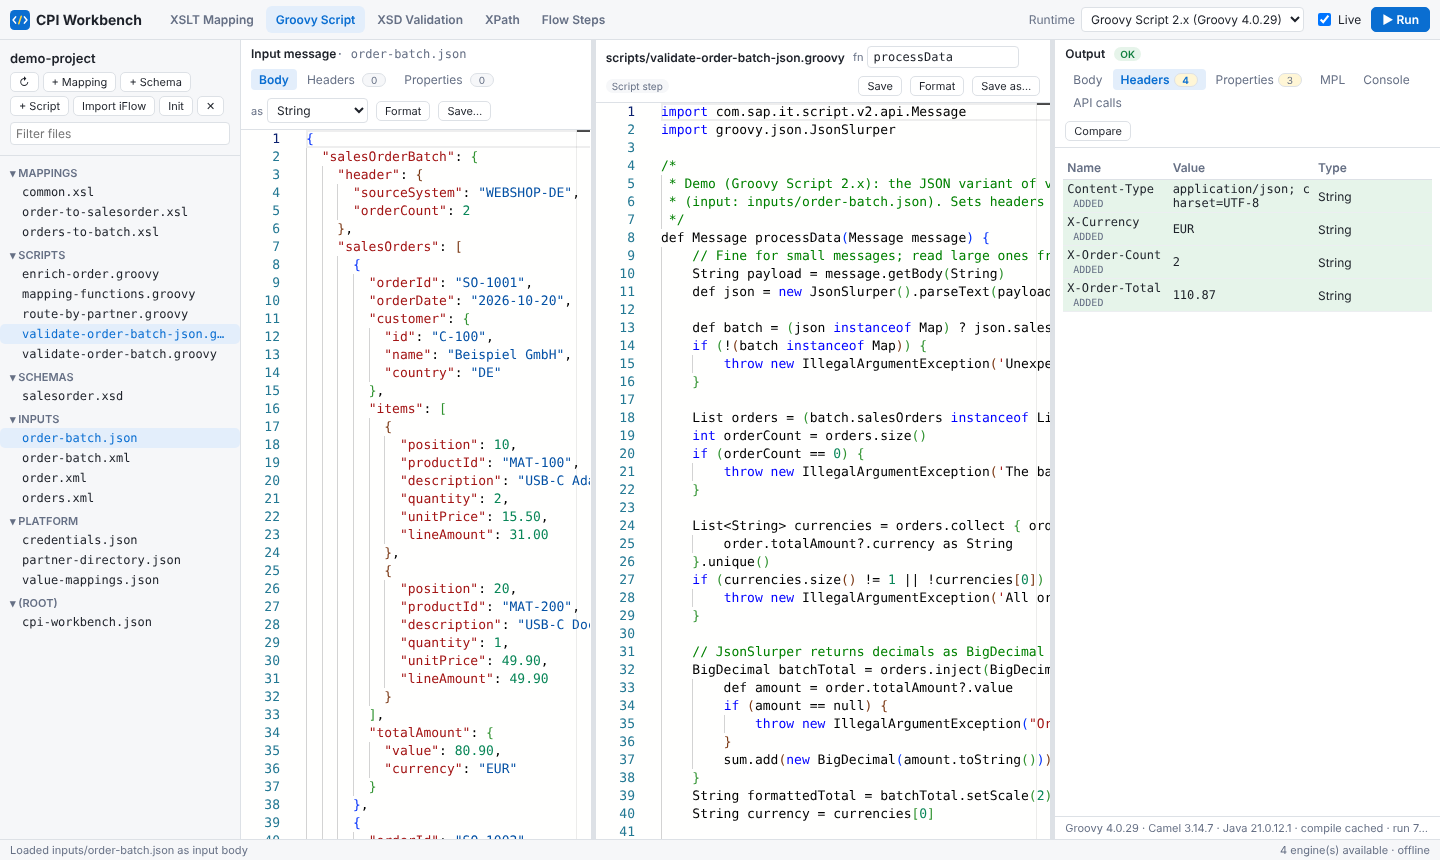
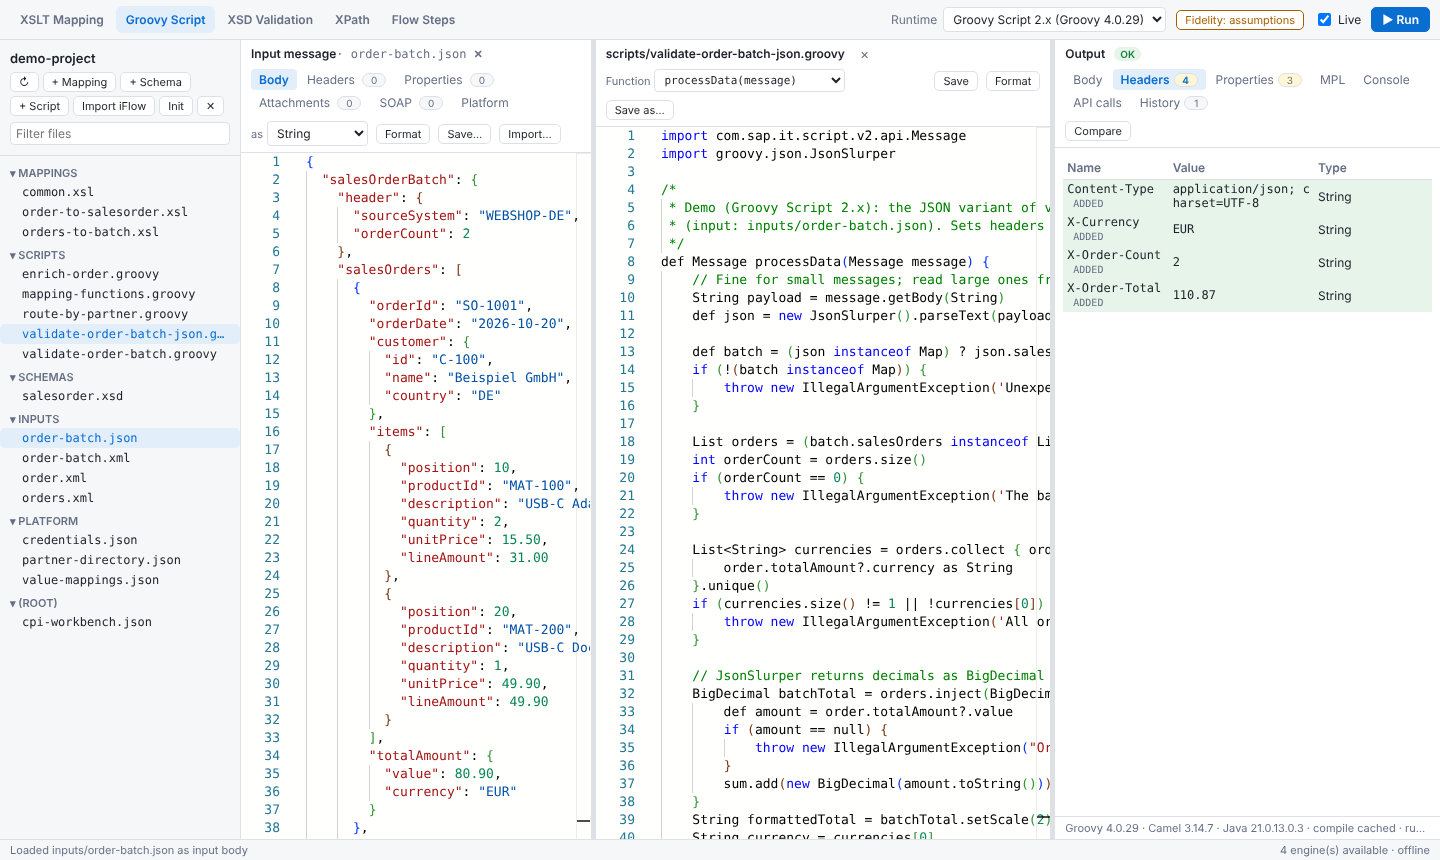
README: current screenshots, with Diagram and Where used
The three screenshots predated the Diagram and Where used tabs and the
fidelity indicator. They are retaken in browser mode at the same size
(1440x860) from the demo project, and two are added: the Diagram of the
synthetic test iFlow with a step selected, and the Where used overview. The
README shows the four besides the XSLT view in a table.

Claude-Session: https://claude.ai/code/session_01JwBwuZ1EjhU2TRDdWg7PPZ

diff --git a/README.md b/README.md
@@ -38,6 +38,12 @@ Java calls are **not sandboxed**: run code you trust ([access rules](docs/user-g
 
 ![XSLT view](docs/images/screenshot-xslt.png)
 
+| Groovy Script | Flow Steps |
+|---|---|
+| ![Groovy view](docs/images/screenshot-groovy.png) | ![Flow Steps view](docs/images/screenshot-flow-steps.png) |
+| **Diagram** of an imported iFlow | **Where used** overview |
+| ![Diagram view](docs/images/screenshot-diagram.png) | ![Where used view](docs/images/screenshot-where-used.png) |
+
 ## Install and start
 
 Download a Windows x64 or macOS Apple Silicon installer from the
